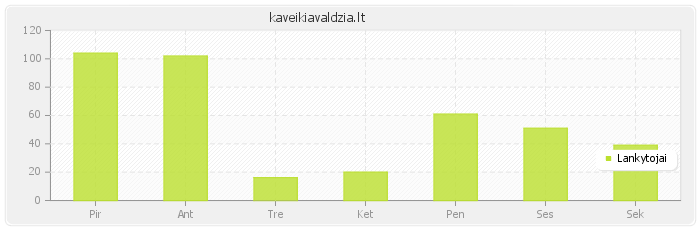
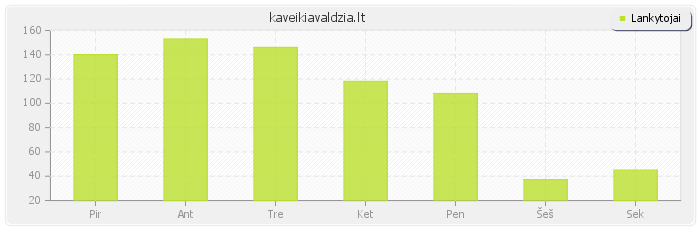
changes to all templates, image legend

diff --git a/includes/rss.php b/includes/rss.php
@@ -35,21 +35,15 @@ function get_visits( $gapi, $profile_id, $from, $to ) {
 function git_rss ( $xml, $site, $module ) {
     global $lang, $config;
     $msg = '';
-    foreach ( $xml->entry as $node ) {
-	$date = date('Y-m-d', strtotime($node->updated));
-//	var_dump($date, $config['to'], $date >= $config['from'] && $date <= $config['to']);
-	if ( $date >= $config['from'] && $date <= $config['to']) {
-	    $link_attr = $node->link->attributes();
-	    $link = $link_attr['href'];
-	    ob_start();
-	    include 'templates/git_tpl.php';
-	    $msg.=ob_get_clean();
-	}
-    }
+
+    ob_start();
+    include 'templates/git_tpl.php';
+    $msg=ob_get_clean();
+
     $pos = strpos($site, $module);
     $site = substr($site, 0 , $pos);
     $l = sprintf($lang['git_title'], $site.$module, $module);
-    return $msg ?  $l.$msg: $l.$lang['nochanges'];
+    return $exist ?  $l.$msg: $l.$lang['nochanges'];
     
 }
 
@@ -68,36 +62,22 @@ function teambox_rss ( $xml, $site ) {
 function site_rss ( $xml, $site ) {
     global $lang, $config;
     $msg = '';
-//    var_dump($xml->channel);
-    foreach ( $xml->channel->item as $node ) {
-	$date = date('Y-m-d', strtotime($node->pubDate));
-	if ( $date >= $config['from'] && $date <= $config['to']) {
-	    $child = $node->children('dc');
-	    ob_start();
-	    include 'templates/site_tpl.php';
-	    $msg.=ob_get_clean();
-	}
-    }
+    ob_start();
+    include 'templates/site_tpl.php';
+    $msg=ob_get_clean();
     $l = sprintf($lang['site_title'], $site, $site);
-    return $msg ? $l.$msg : $l.$lang['nonews'];
+    return $exist ? $l.$msg : $l.$lang['nonews'];
 
 }
 
 function atom_rss ( $xml, $site ) {
     global $lang, $config;
     $msg = '';
-    foreach ( $xml->entry as $node ) {
-	$date = date('Y-m-d', strtotime($node->updated));
-//	var_dump($date, $config['to'], $date >= $config['from'] && $date <= $config['to']);
-	if ( $date >= $config['from'] && $date <= $config['to']) {
-	    $link_attr = $node->link->attributes();
-	    $link = $link_attr['href'];
-	    ob_start();
-	    include 'templates/git_tpl.php';
-	    $msg.=ob_get_clean();
-	}
-    }
+
+    ob_start();
+    include 'templates/git_tpl.php';
+    $msg=ob_get_clean();
 
     $l = $lang['atom_title'];
-    return $msg ?  $l.$msg: $l.$lang['nonews'];
+    return $exist ?  $l.$msg: $l.$lang['nonews'];
 }

diff --git a/includes/helper.php b/includes/helper.php
@@ -45,20 +45,6 @@ function generate_image( $site_name, $visits ) {
 		$points[] = $visit;
 
 		$text = $lang['days'][date('N', strtotime($date))];
-		# detect if the string was passed in as unicode
-		/*$text_encoding = mb_detect_encoding($text, 'UTF-8, ISO-8859-1');
-		
-		# make sure it's in unicode
-		if ($text_encoding != 'UTF-8') {
-			$text = mb_convert_encoding($text, 'UTF-8', $text_encoding);
-		}
-
-		# html numerically-escape everything (&#[dec];)
-		$text = mb_encode_numericentity($text,
-			array (0x0, 0xffff, 0, 0xffff, 0x160), 'UTF-8');
-		
-		var_dump($text, $text_encoding);*/
-
 		$names[] = $text;
 		 
 	}
@@ -90,11 +76,12 @@ function generate_image( $site_name, $visits ) {
 
 	 // Finish the graph
 	 $Test->setFontProperties($font,8);
-	 $Test->drawLegend(596,150,$DataSet->GetDataDescription(),255,255,255);
+//	 $Test->drawLegend(100,20,$DataSet->GetDataDescription(),255,255,255);
+	 $Test->drawLegend(610,10,$DataSet->GetDataDescription(),236,238,240,52,58,82);
 	 $Test->setFontProperties($font,10);
 	 $Test->drawTitle(50,22,$site_name,50,50,50,585);
 	 $path = IMAGE_PATH."$site_name.png";
-	 if ( file_exists(path) )
+	 if ( file_exists($path) )
 		unlink($path);
 	 $Test->Render($path);
 	 return $path;

diff --git a/fetch.php b/fetch.php
@@ -16,8 +16,8 @@ if ( $config['generate_statistics'] ) {
 	    $config[filename((string)$result)]['profile_id'] = $result->getProfileId();
     }
 }
-
-/*$profile_id =$config['kaveikiavaldzia']['profile_id'];
+/*
+$profile_id =$config['kaveikiavaldzia']['profile_id'];
 //last week visits
 $visits = get_visits( $ga, $profile_id, $config['from'], $config['to']);
 $prior_visits = get_visits( $ga, $profile_id, $config['prior_from'], $config['prior_to']);
@@ -87,7 +87,7 @@ foreach ( $config['links'] as $site_name => $site ) {
 	
     }
     $fmsg = sprintf($msg, $git_msg, $teambox_msg, $site_msg, $atom_msg, $stat_msg);
-//    echo $fmsg;
-//    echo '</br>';
-    send_mail($config['mail_to'], $subject, $fmsg, $config['mail_from'], 'manovalstybe.lt');
+    echo $fmsg;
+    echo '</br>';
+    //send_mail($config['mail_to'], $subject, $fmsg, $config['mail_from'], 'manovalstybe.lt');
 }

diff --git a/templates/site_tpl.php b/templates/site_tpl.php
@@ -1,1 +1,26 @@
-<br/><?=$date?> <?=$child->creator?> <a href="<?=$node->link?>"><?=$node->title?></a>
+<table border="1">
+	<tbody>
+	<tr>
+		<th>time</th><th>user</th><th>message</th>
+	</tr>
+
+<? foreach ( $xml->channel->item as $node ) {
+
+	$date = date('Y-m-d', strtotime($node->pubDate));
+	if ( $date >= $config['from'] && $date <= $config['to']) {
+	    $child = $node->children('dc');
+	    $exist = true;
+	    //var_dump((string)$node->description != (string)$node->title, $node->description , $node->title);?>
+	    <tr>
+		    <td valign="top"><?=$date?></td>
+		    <td valign="top"><?=$child->creator?></td>
+		    <td>
+			<a href="<?=$node->link?>"><?=$node->title?></a>
+			<div><?=$node->description?></div>
+		    </td>
+	    </tr>
+	<? } ?>
+<? } ?>
+	<tr></tr>
+	</tbody>
+</table>

diff --git a/templates/git_tpl.php b/templates/git_tpl.php
@@ -1,1 +1,25 @@
-<br/><?=$date?> <a href="<?=$node->author->uri?>"><?=$node->author->name?></a> <a href="<?=$link?>"><?=$node->title?></a>
+<table border="1">
+	<tbody>
+	<tr>
+		<th>time</th><th>user</th><th>message</th>
+	</tr>
+
+<? foreach ( $xml->entry as $node ) {
+	$date = date('Y-m-d', strtotime($node->updated));
+	if ( $date >= $config['from'] && $date <= $config['to']) {
+	    $link_attr = $node->link->attributes();
+	    $link = $link_attr['href'];
+	    $exist = true;?>
+	    <tr>
+		    <td valign="top"><?=$date?></td>
+		    <td valign="top"><a href="<?=$node->author->uri?>"><?=$node->author->name?></a></td>
+		    <td> 
+			<a href="<?=$link?>"><?=$node->title?></a>
+			<div><?=$node->content?></div>
+		    </td>
+	    </tr>
+	<? } ?>
+<? } ?>
+	<tr></tr>
+	</tbody>
+</table>

diff --git a/templates/teambox_tpl.php b/templates/teambox_tpl.php
@@ -1,4 +1,4 @@
-<table>
+<table border="1">
 	<tbody>
 	<tr>
 		<th>time</th><th>user</th><th>message</th>
@@ -11,8 +11,8 @@
 	    $exist = true;
 	    //var_dump((string)$node->description != (string)$node->title, $node->description , $node->title);?>
 	    <tr>
-		    <td><?=$date?></td>
-		    <td><?=$node->author?></td>
+		    <td valign="top"><?=$date?></td>
+		    <td valign="top"><?=$node->author?></td>
 		    <td>
 			    <?/*
 			    <p><a href="<?=$node->link;?>"><?=$node->title?></a></p>

diff --git a/templates/stats.php b/templates/stats.php
@@ -1,8 +1,8 @@
-<h3>Statistika:</h3>
+<h3>Lankomumo statistika:</h3>
 <br/>
 <img src="<?=IMAGE_URL.$image_name?>" alt="statistics" />
 
-<table>
+<table border="1">
 <tr>
   <th>&nbsp;</th>
   <th>Ši savaitė</th>
